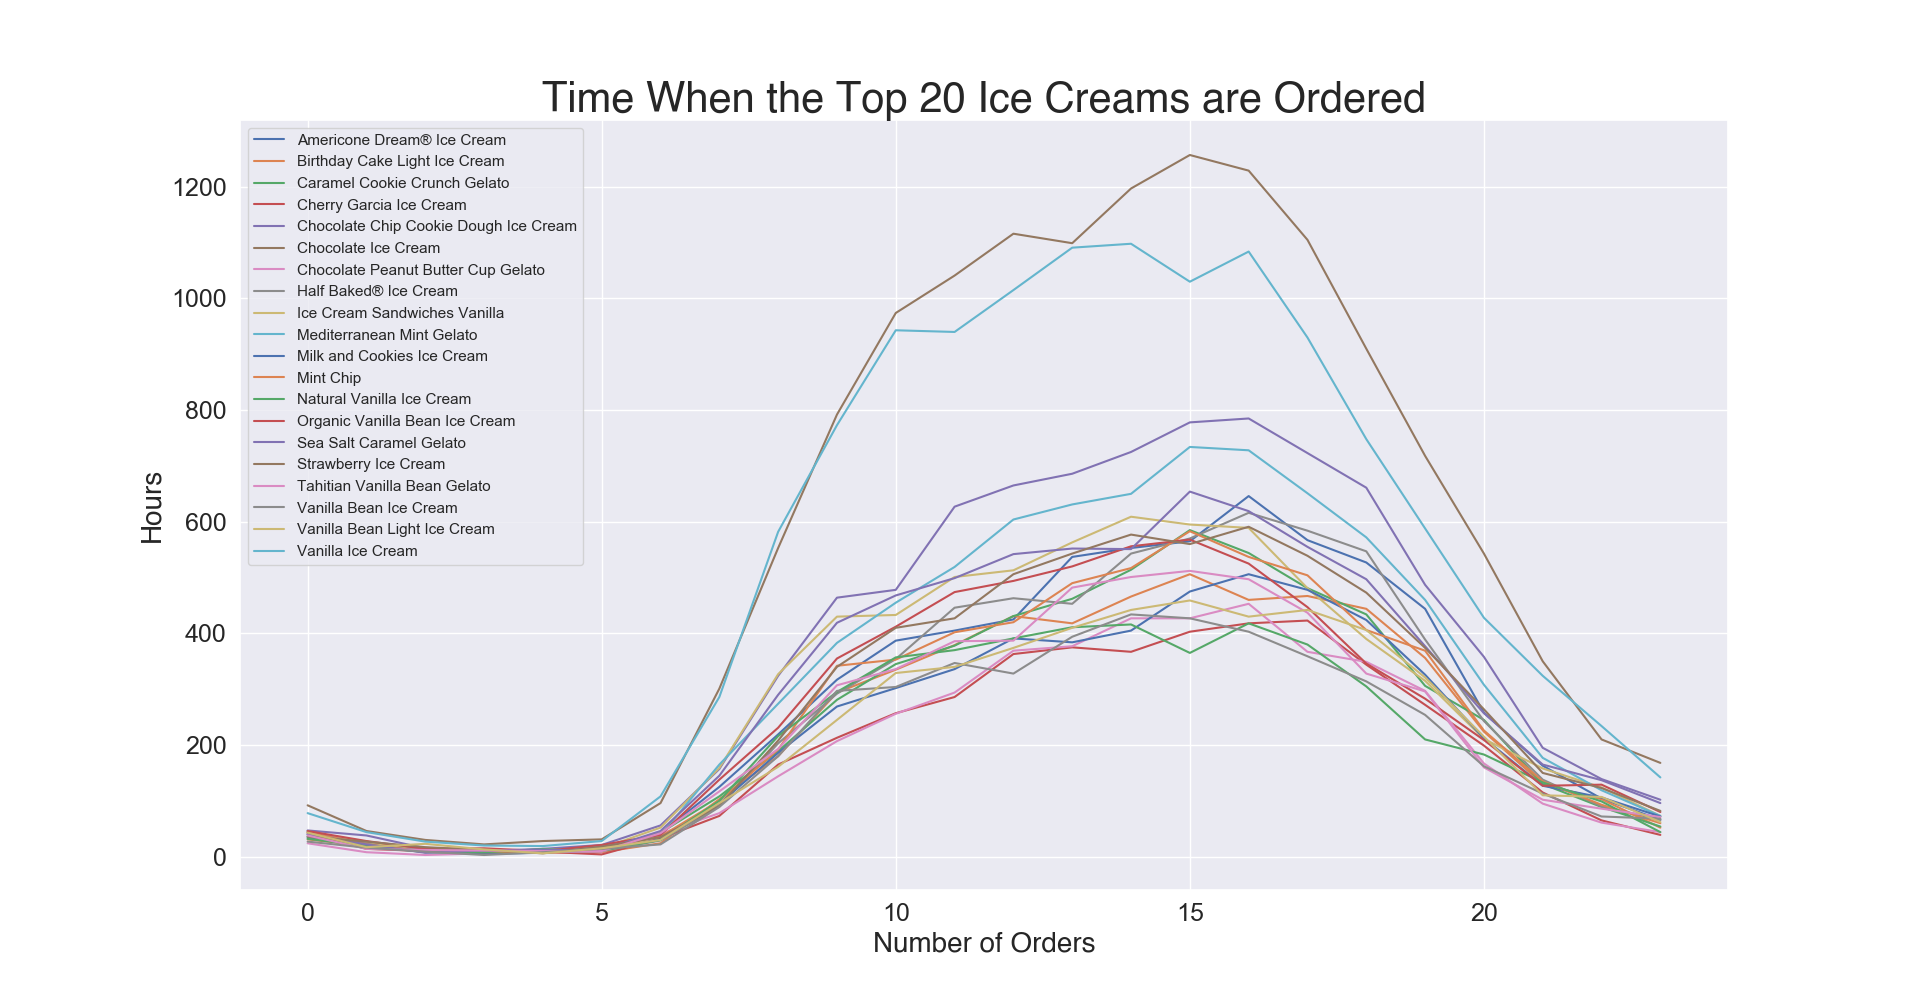
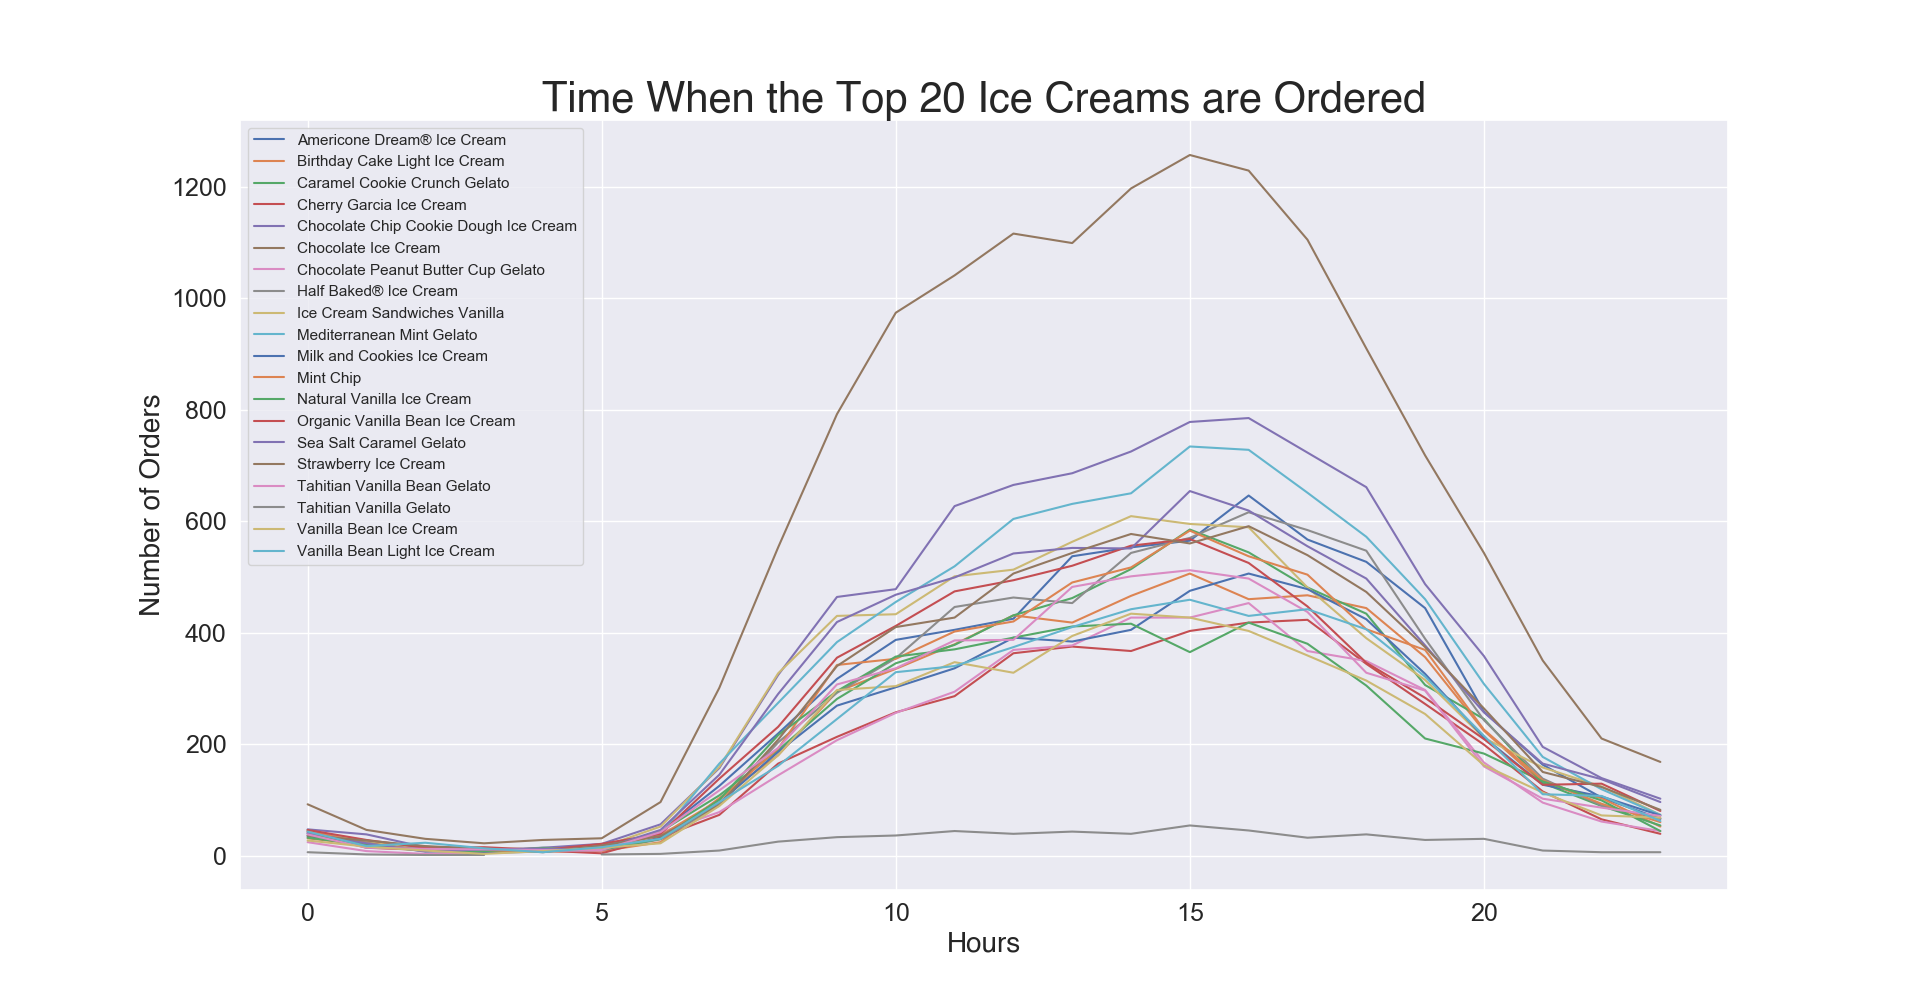
Updating READ

diff --git a/notebooks/graphing.py b/notebooks/graphing.py
@@ -24,97 +24,41 @@ if __name__ == "__main__":
     color5 = '#E84846'
     citrus = [color1, color2, color3, color4, color5]
     sns.palplot(sns.color_palette(citrus))
-
     fonttitle = {'fontname':'Helvetica', 'fontsize':30}
     fontaxis = {'fontname':'Helvetica', 'fontsize':20}
 
     #---    things to graph
-    high_order = full.groupby('product_name').agg({"order_id":"count"})\
-                     .sort_values(by='order_id', ascending = False).reset_index()[:15]
     high_reord = full.groupby('product_name').agg({"reordered":"count"})\
                      .sort_values(by='reordered', ascending = False).reset_index()[:15]
     dow = full['order_dow'].value_counts().reset_index()
+    days = ['Saturday','Sunday','Monday','Tuesday',"Wednesday",'Thursday',"Friday"] 
+    dow['days'] = days  
     hours = full['order_hour_of_day'].value_counts().reset_index().sort_values(by="index")
     num_order = full['order_number'].value_counts()
-    top_depart = full.groupby('department').agg({"product_name":"size"})\
-                     .sort_values(by='product_name', ascending = False).reset_index()
-    top_aisle = full.groupby('aisle').agg({"product_name":"size"})\
-                     .sort_values(by='product_name', ascending = False).reset_index()[:20]
-    bottom_aisle = full.groupby('aisle').agg({"product_name":"size"})\
-                     .sort_values(by='product_name', ascending = False).reset_index()[84:]
 
     #---    plots
     make_graph(hours, 'index', 'order_hour_of_day', 'Orders by Hour', "Hours", 'Number of Orders')
-    make_graph(dow, 'index', 'order_dow', 'Orders by Day of Week', "Day", 'Number of Orders', )
+    make_graph(dow, 'days', 'order_dow', 'Orders by Day of Week', None, 'Number of Orders')
     make_graph(high_reord, 'reordered', 'product_name', 'Top 15 Highest Reordered Item', 'Number of Reorders', "Item")                
 
-    #---    who orders 1 thing
-    one = full.groupby('order_id').agg({'add_to_cart_order':'max'})
-    one = pd.merge(one, full, on = 'order_id')
-    one = one[one['add_to_cart_order_x'] == 1].copy()
-    one = one[['order_id', 'add_to_cart_order_x', 
-                'product_name', 'order_dow']] 
-
-    grouped = one.groupby('product_name').agg({'order_dow':'mean', 'order_hour_of_day':'mean'})
-    counts = one['product_name'].value_counts()
-    counts = counts.reset_index()
-    counts = counts.rename(columns={'product_name':'count', 'index':'product_name'})
-    group = pd.merge(grouped, counts, on = 'product_name')
-
-    top_one = group[group['count'] > 250]
-    np.sum(group['count']) #163593
-
-    ax = sns.scatterplot(top_one['order_hour_of_day'], top_one['count'])
-    plt.show(); 
-
-    #product 
-    cool = full.groupby(['order_hour_of_day', 'aisle']).agg({'order_id':'count'})  
-
-    cool20 = cool[cool['order_hour_of_day'] == 20].copy()
-    cool10 = cool[cool['order_hour_of_day'] == 15].copy()
-    cool15 = cool[cool['order_hour_of_day'] == 10].copy()
-
-    cool20['perc'] = cool20['order_id'] / (np.sum(cool20['order_id']))
-    cool10['perc'] = cool10['order_id'] / (np.sum(cool10['order_id']))
-    cool15['perc'] = cool15['order_id'] / (np.sum(cool15['order_id']))
-
-    cool10top = cool10.sort_values(by='perc', ascending = False)[:10]
-    cool15top = cool15.sort_values(by='perc', ascending = False)[:10]
-    cool20top = cool20.sort_values(by='perc', ascending = False)[:10]
-
-    fig, ax = plt.subplots(figsize = (10, 5))
-    plt.scatter(cool10top['aisle'], cool10top['perc'] * 100, alpha=0.5, color= '#F6A811', label = '10am', marker="*")
-    plt.scatter(cool15top['aisle'], cool15top['perc'] * 100, alpha=0.5, color= '#F46708', label = '3pm')
-    plt.scatter(cool20top['aisle'], cool20top['perc'] * 100, alpha=0.5, color= '#EF727F', label = '8pm')     
-    plt.legend()
-    plt.show();
-
     #---    ice cream
-    ice = full[full['aisle'] == 'ice cream ice'] 
-    top20 = ice['product_name'].value_counts()[:20]
-    top20list = list(top20.index)
-    top = ice[ice.product_name.isin(top20label)]
-
-    graph = pd.read_csv('../ice.csv')
+    graph = pd.read_csv('../icecream.csv')
     label = list(graph['product_name'])
 
     fig, ax = plt.subplots(figsize = (20,10))
     for row in np.arange(20):
         ice = label[row]
         ax.plot(np.arange(24), graph.iloc[row,1:], label = ice)
-    ax.set_ylabel('Hours', fontdict=fontaxis)
-    ax.set_xlabel('Number of Orders', fontdict=fontaxis)
+    ax.set_xlabel('Hours', fontdict=fontaxis)
+    ax.set_ylabel('Number of Orders', fontdict=fontaxis)
     ax.tick_params(axis='both', which='major', labelsize=18)
     plt.title('Time When the Top 20 Ice Creams are Ordered', fontdict=fonttitle)
     plt.legend()
     plt.show();
 
-    colors = sns.palplot(sns.color_palette("husl", 20))
-    plt.show()
-
-    fig, ax = plt.subplots(figsize = (20,10))
-    for row in np.arange(20):
-        ice = label[row]
-        ax = sns.lineplot(x = np.arange(24), y = graph.iloc[row,1:], label = ice)
-    plt.legend()
-    plt.show();
+    #---    who orders 1 thing
+    one = full.groupby('order_id').agg({'add_to_cart_order':'max',  
+                        'product_name':'max',  
+                        'order_hour_of_day':'max'}) 
+    one = one[one['add_to_cart_order'] == 1].copy()
+    top25 = one['product_name'].value_counts()[:25] 

diff --git a/notebooks/tensorflow_banana.py b/notebooks/tensorflow_banana.py
@@ -34,8 +34,6 @@ if __name__ == "__main__":
               metrics=['accuracy'])
     model.fit(X_train, y_train, epochs=3, batch_size=32, validation_split=0.2)
 
-run1loss = [793.7966, 181.4234, 21.2258]
-run1acc = [0.6140, 0.6274, 0.6700]
 '''
 Run1 with 1 layer relu
 Epoch 1/3
@@ -56,8 +54,6 @@ loss: 21.2258 - accuracy: 0.6700 - val_loss: 0.5802 - val_accuracy: 0.7339
               metrics=['accuracy'])
     model.fit(X_train, y_train, epochs=3, batch_size=32, validation_split=0.2)
 
-run2loss = [873.9270, 167.2178, 4.1501]
-run2acc = [0.6138, 0.6281, 0.7076]
 '''
 Epoch 1/3
 loss: 873.9270 - accuracy: 0.6138 - val_loss: 136.7671 - val_accuracy: 0.7283
@@ -78,8 +74,6 @@ loss: 4.1501 - accuracy: 0.7076 - val_loss: 0.5795 - val_accuracy: 0.7339
               metrics=['accuracy'])
     model.fit(X_train, y_train, epochs=5, batch_size=32, validation_split=0.2)
 
-run3loss = [298.1448, 0.7434, 0.8325, 0.7049, 0.6982]
-run3acc = [0.6887, 0.7334, 0.7334, 0.7335, 0.7335]
 '''
 Epoch 1/5
 loss: 298.1448 - accuracy: 0.6887 - val_loss: 0.5794 - val_accuracy: 0.7339
@@ -161,6 +155,7 @@ loss: 0.5797 - accuracy: 0.7336 - val_loss: 0.5794 - val_accuracy: 0.7339
               loss=tf.keras.losses.BinaryCrossentropy(from_logits=True),
               metrics=['accuracy'])
     model.fit(X_train, y_train, epochs=5, batch_size=32, validation_split=0.2)
+run4acc = [0.7262, 0.7335, 0.7336, 0.7336, 0.7336]
 '''
 Epoch 1/5
 loss: 21.1934 - accuracy: 0.7262 - val_loss: 0.5795 - val_accuracy: 0.7339
@@ -174,5 +169,30 @@ Epoch 5/5
 loss: 0.5797 - accuracy: 0.7336 - val_loss: 0.5793 - val_accuracy: 0.7339
 '''
 
-    #graphing data from NN
-    fig, ax = plt.subplots(5, 2, figsize = (5,5)):
+    #ugly graphing data from NN
+    # fig, axs = plt.subplots(1, 4, figsize = (5,5), sharey = True)
+    # acc = [[0.6140, 0.6274, 0.6700], [0.6138, 0.6281, 0.7076],
+    #         [0.6887, 0.7334, 0.7334, 0.7335, 0.7335], [0.7262, 0.7335, 0.7336, 0.7336, 0.7336]]
+    # for i, ax in enumerate(axs.flatten()):
+    #     ax.plot(acc[i])
+    # plt.show();
+
+    fig, axs = plt.subplots(1, 2, figsize = (10,10), sharey = True)
+    acc = [[0.6140, 0.6274, 0.6700], [0.6138, 0.6281, 0.7076],
+            [0.6887, 0.7334, 0.7334, 0.7335, 0.7335], [0.7262, 0.7335, 0.7336, 0.7336, 0.7336]]
+    for i, ax in enumerate(axs.flatten()):
+        ax.scatter(np.arange(3), acc[i], alpha=0.8)
+    plt.show();
+
+    fig, ax = plt.subplots(1, 2, figsize = (10,10), sharey = True)
+    x = range(3)
+    ax[0,0] = sns.scatterplot([x, run1acc, alpha=0.8)
+    ax[0,0] = sns.scatterplot(x, run2acc, alpha=0.8)
+    ax[0,0] = sns.scatterplot(x, run3acc, alpha=0.8)
+    ax[0,0] = sns.scatterplot(x, run4acc, alpha=0.8)
+    plt.show();
+
+run1acc = [0.6140, 0.6274, 0.6700]
+run2acc = [0.6138, 0.6281, 0.7076]
+run3acc = [0.6887, 0.7334, 0.7334, 0.7335, 0.7335]
+run4acc = [0.7262, 0.7335, 0.7336, 0.7336, 0.7336]

diff --git a/README.md b/README.md
@@ -1,14 +1,16 @@
 ![title](images/title.png)
-
+## The Data
 - Instacart partners with most supermarkets, and some local speciality shops depending on your area. Once you place an order a "personal shopper" will fulfill and deliver your order to your door on the same day
 
 - This dataset is made up of 3 million food orders from about 120,000 customers from the company spanned across multiple CSV files
 ![title](images/explains.jpg)
-## Customer Information
+
+## The Customer
 ![title](images/highestreorder.png)
 ![title](images/dayofweek.png)
 ![title](images/hour.png)
-
+![title](images/icecream.png)
+![title](images/oneorder.png)
 # High Dimensional Data
  
 ### Principal Components
@@ -24,8 +26,8 @@
 # Supervised Machine Learning
 ### Bananas
 - Can I predict if your cart has the number one ordered item - Bananas!
-    - Fun fact: 58% of users have ordered Bananas at least once
-    - Fun fact: Bananas have been ordered over 500,000 times 
+    - Fun fact: **58%** of users have ordered Bananas at least once
+    - Fun fact: Bananas have been ordered over **500,000** times 
 
 - Even with the information above we are dealing with imbalanced classes, only about 25% of orders have bananas
 
@@ -49,15 +51,18 @@
 # Supervised Machine Learning
 ### Organic
 - Can I predict if your cart has an Organic item?
-    - Fun fact: 10% of products are Organic
-    - Fun fact: 32% of items purchased are Organic
-    - Fun fact: 73% of orders have at least 1 Organic item
+    - Fun fact: **10%** of products are Organic
+    - Fun fact: **32%** of items purchased are Organic
+    - Fun fact: **73%** of orders have at least 1 Organic item
 
 - Yet again we're dealing with imbalanced classes. At least one Organic items appears in 75% of each order.
 ![title](images/organic.png)
 
 # Neural Nets
 - Lets try one more model. Neural Nets!
+
+### The Final Model
+- Given all the information given by my models the one I'd recommend is --ADD--
 
 ### Next Steps
 - Adjust the imbalance in both data sets by using oversampling, undersampling, and SMOTE to see the impact on my various models
